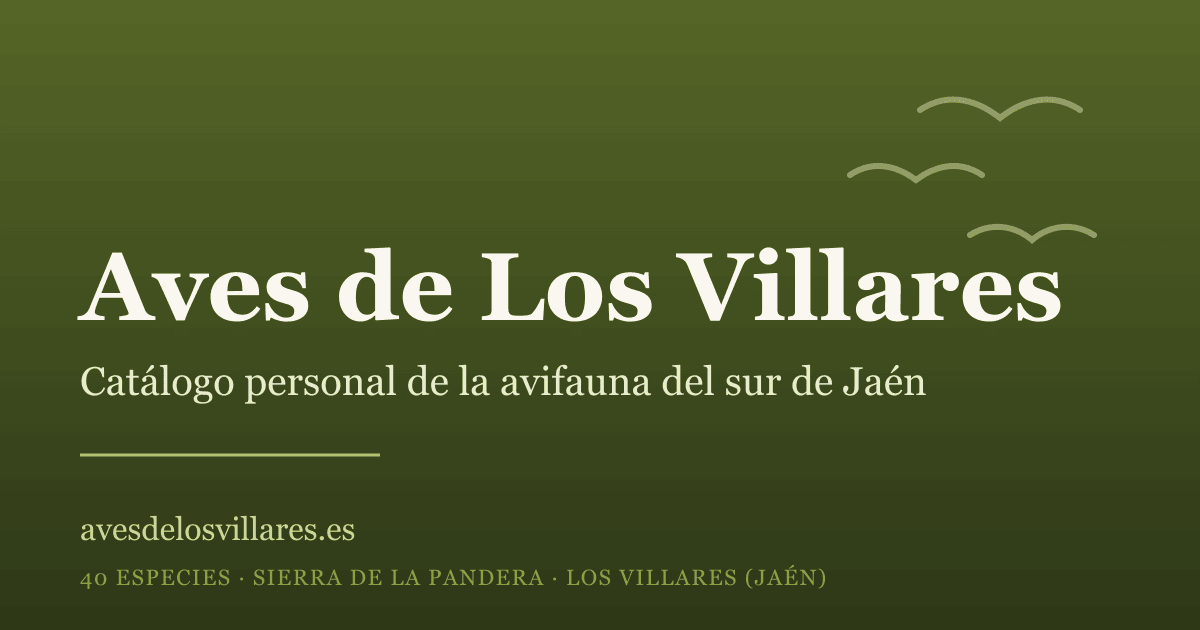
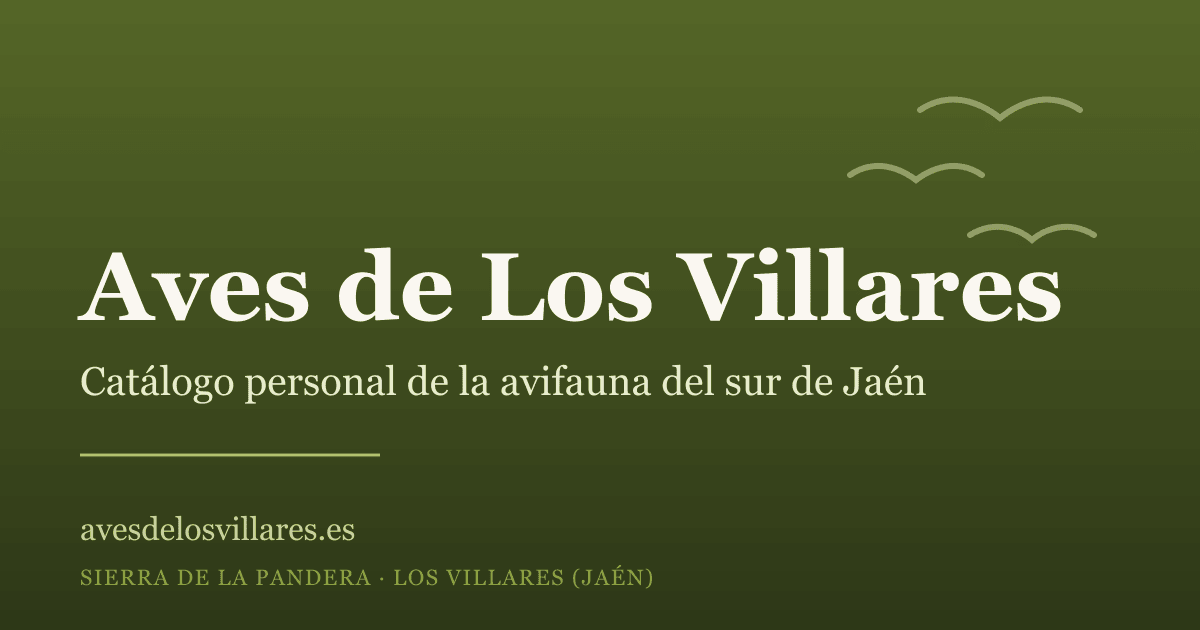
Pulir CTAs del 404 y limpiar texto provisional en OG
- Botones del 404 con padding mayor (py-3.5, px-6) y leading-none para
  que tengan presencia visual; antes quedaban escuchimizados
- Quitar "40 ESPECIES" del pie de la imagen OG mientras el número de
  especies del catálogo sea provisional

Changed region(s): [[0.0617, 0.9048, 0.6783, 0.9349]]

diff --git a/scripts/generate-og.ts b/scripts/generate-og.ts
@@ -41,9 +41,9 @@ const svg = `
     avesdelosvillares.es
   </text>
 
-  <!-- métrica -->
+  <!-- pie -->
   <text x="80" y="585" font-family="Georgia, serif" font-size="22" fill="#8fa343" letter-spacing="1.5">
-    40 ESPECIES · SIERRA DE LA PANDERA · LOS VILLARES (JAÉN)
+    SIERRA DE LA PANDERA · LOS VILLARES (JAÉN)
   </text>
 </svg>
 `;
